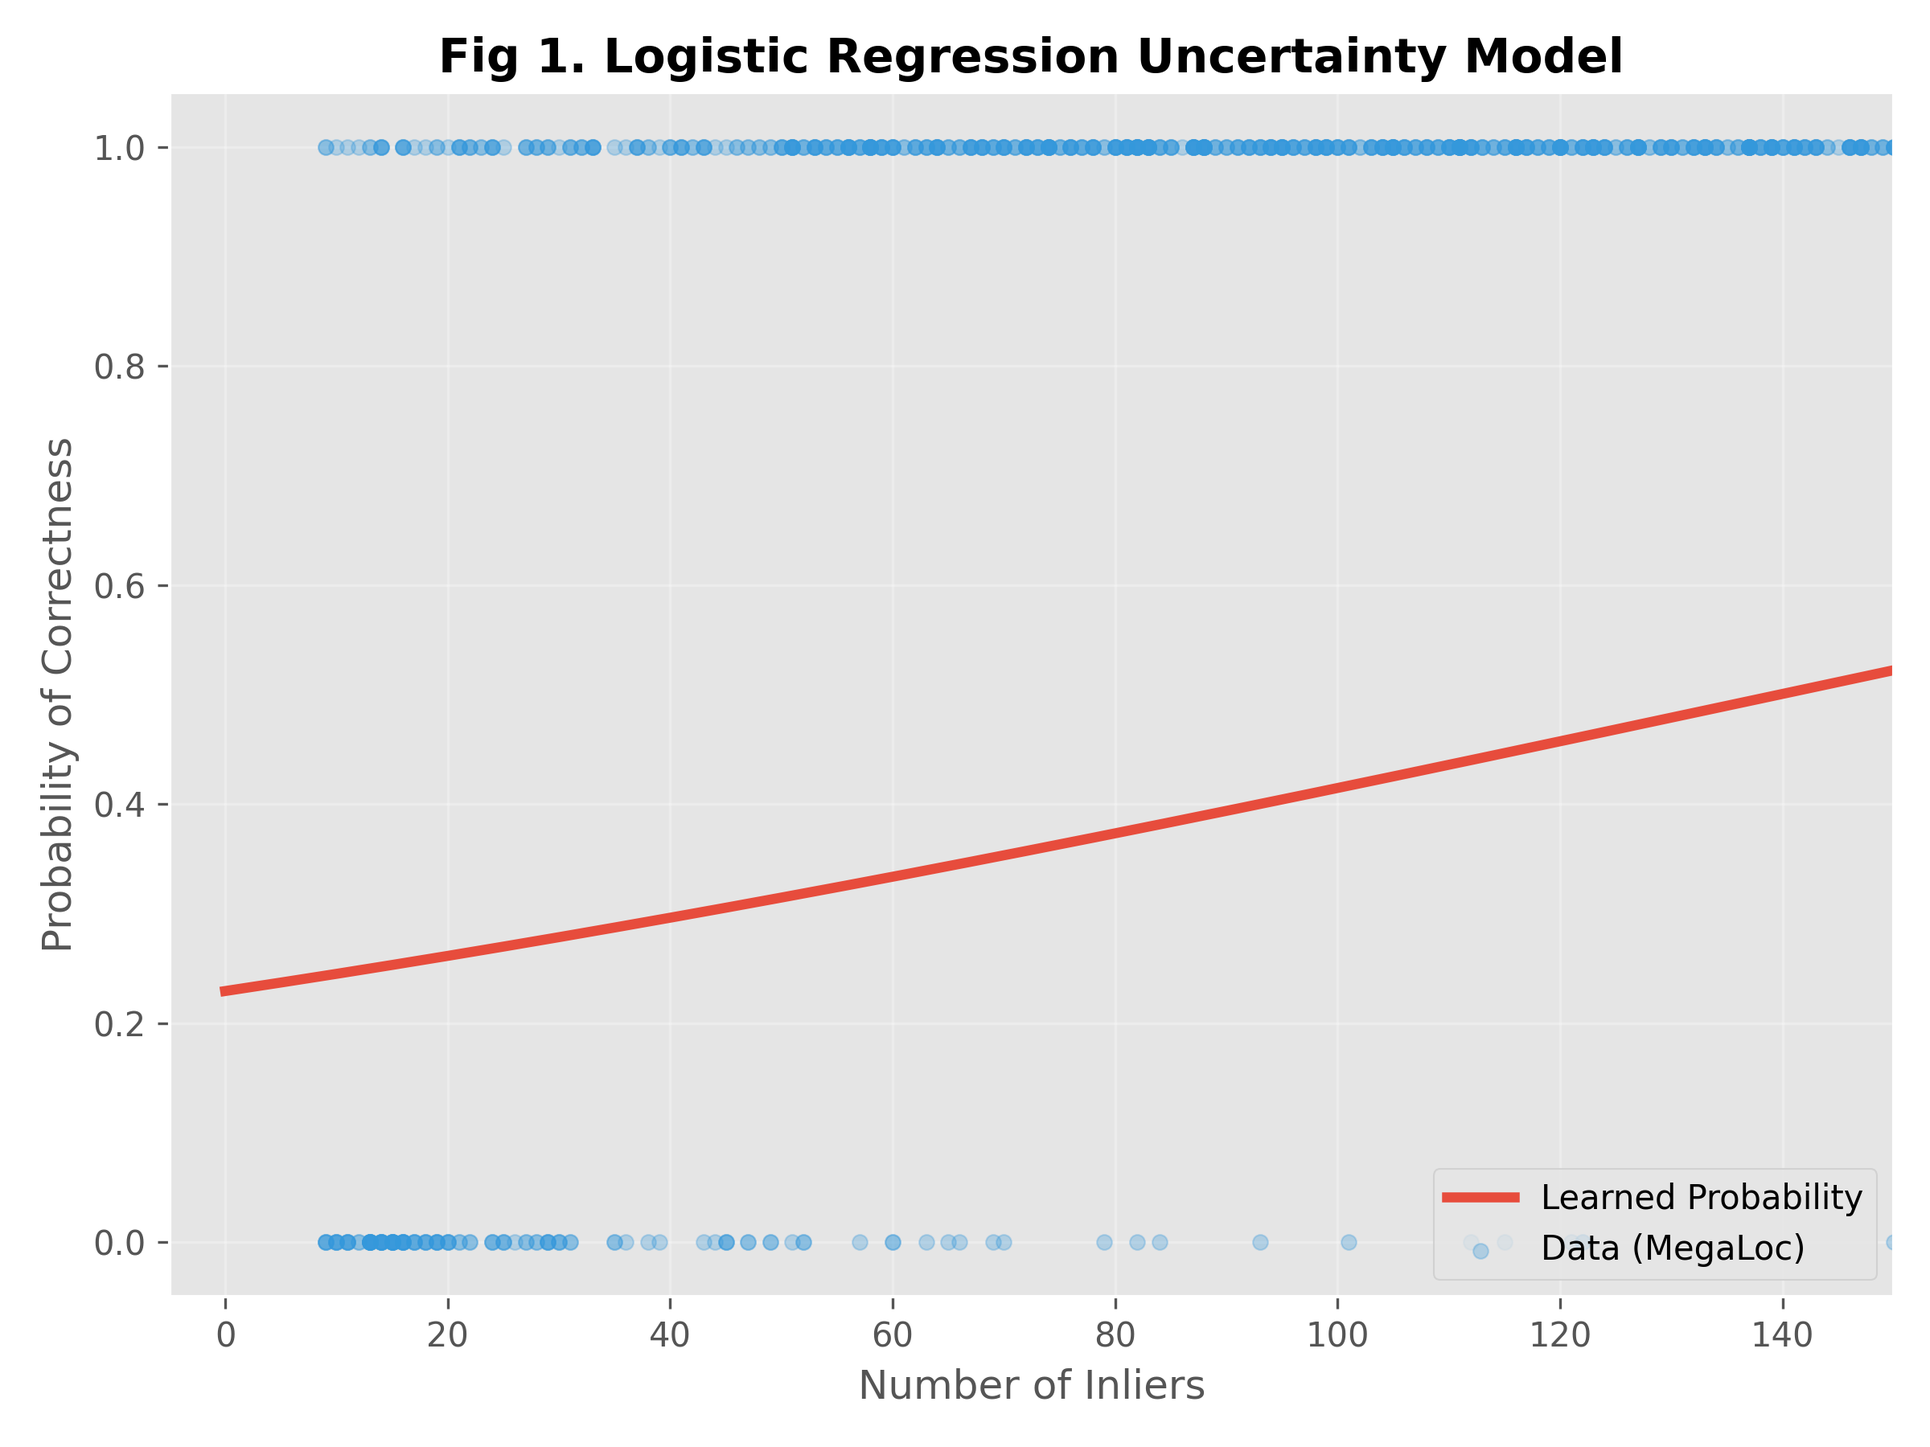
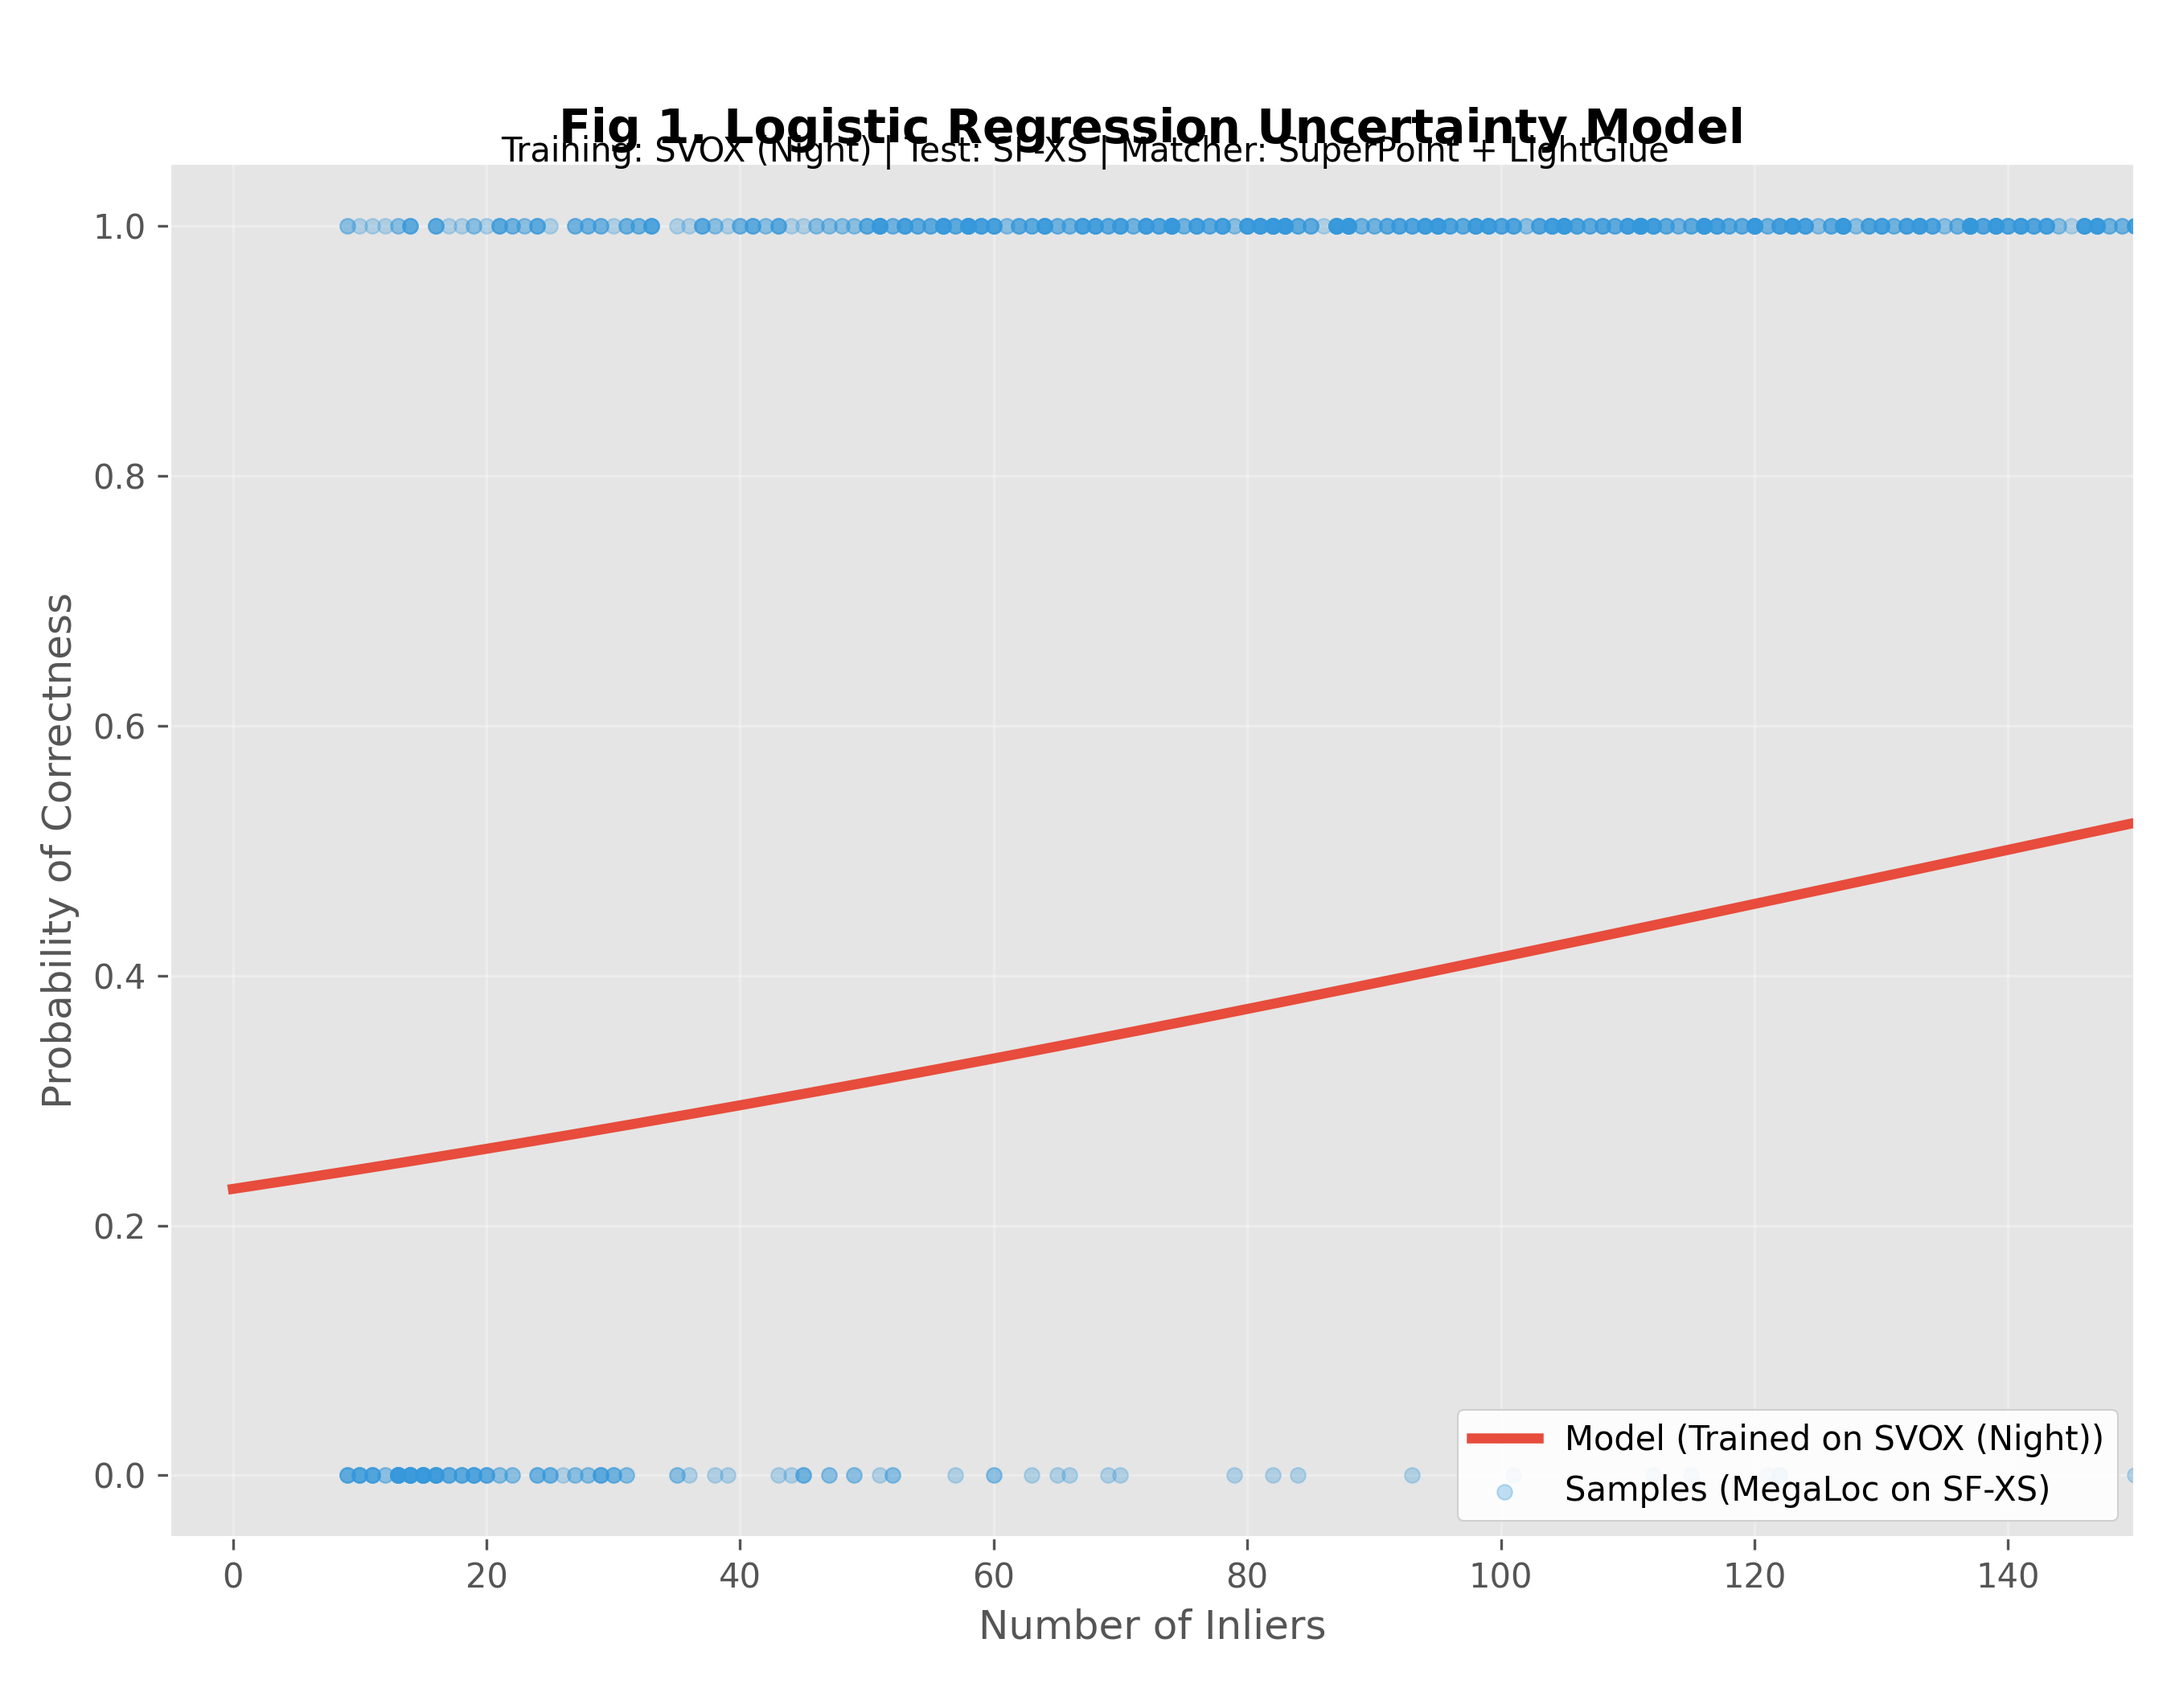
fixed

Changed region(s): [[0.0, 0.0311, 1.0, 0.9956]]

diff --git a/vpr_uncertainty/universal_lr.py b/vpr_uncertainty/universal_lr.py
@@ -14,6 +14,7 @@ warnings.filterwarnings('ignore')
 
 # 1. Training Set (Teacher) -> SVOX (Sun vs Night)
 TRAIN_LOG_DIR = r"D:\AML\Visual-Place-Recognition-Project\logs\2025-12-23_21-01-31"
+TRAIN_DATASET_NAME = "SVOX (Night)"
 
 # 2. Test Sets (Student) -> SF-XS
 # The keys will be used as labels in the plots
@@ -23,9 +24,14 @@ TEST_LOG_DIRS = {
     "MixVPR":   r"D:\AML\Visual-Place-Recognition-Project\logs\log_dir\2025-12-31_08-24-08",
     "MegaLoc":  r"D:\AML\Visual-Place-Recognition-Project\logs\log_dir\2025-12-31_10-47-59"
 }
+TEST_DATASET_NAME = "SF-XS"
 
 # 3. Matcher Folder Name
 MATCHER_FOLDER = "preds_superpoint-lg"
+MATCHER_DISPLAY_NAME = "SuperPoint + LightGlue"
+
+# 4. Results Output Directory
+RESULTS_DIR = r"D:\AML\Visual-Place-Recognition-Project\results"
 
 # =======================================================
 
@@ -105,6 +111,11 @@ def compute_ause(y_true, y_pred_prob):
     return ause, model_curve, oracle_curve
 
 def main():
+    # Ensure results directory exists
+    if not os.path.exists(RESULTS_DIR):
+        print(f"📁 Creating results directory: {RESULTS_DIR}")
+        os.makedirs(RESULTS_DIR)
+
     print("🚀 === Training SVOX (Teacher) Model ===")
     X_train, y_train = get_data(TRAIN_LOG_DIR, MATCHER_FOLDER)
     
@@ -125,7 +136,7 @@ def main():
     
     # Store statistics for plotting
     stats = {
-        'names': [], 'auprc': [], 'ause': [], 'spearman': []
+        'names': [], 'auprc': [], 'ause': [], 'spearman': [], 'r2': []
     }
     
     # Variables to track the "best performer" for detailed curve plotting
@@ -161,6 +172,7 @@ def main():
         stats['auprc'].append(auprc)
         stats['ause'].append(ause_val)
         stats['spearman'].append(spearman_val)
+        stats['r2'].append(r2_val)
         
         # Update best method data (lowest AUSE) for Fig 1 and Fig 2
         if ause_val < best_ause:
@@ -175,27 +187,32 @@ def main():
     plt.style.use('ggplot')
 
     # --- Fig 1: Logistic Regression Curve (S-Curve) ---
-    plt.figure(figsize=(8, 6))
+    plt.figure(figsize=(9, 7))
     x_range = np.linspace(0, 150, 300).reshape(-1, 1)
     y_prob_learned = clf.predict_proba(x_range)[:, 1]
     
-    plt.plot(x_range, y_prob_learned, color='#e74c3c', linewidth=3, label='Learned Probability')
+    plt.plot(x_range, y_prob_learned, color='#e74c3c', linewidth=3, 
+             label=f'Model (Trained on {TRAIN_DATASET_NAME})')
+    
     if best_method_data:
         plt.scatter(best_method_data['X'], best_method_data['y'], 
-                   color='#3498db', alpha=0.3, s=20, label=f"Data ({best_method_data['name']})")
+                    color='#3498db', alpha=0.3, s=20, 
+                    label=f"Samples ({best_method_data['name']} on {TEST_DATASET_NAME})")
     
     plt.title('Fig 1. Logistic Regression Uncertainty Model', fontsize=14, fontweight='bold')
+    plt.suptitle(f"Training: {TRAIN_DATASET_NAME} | Test: {TEST_DATASET_NAME} | Matcher: {MATCHER_DISPLAY_NAME}", fontsize=10, y=0.92)
     plt.xlabel('Number of Inliers', fontsize=12)
     plt.ylabel('Probability of Correctness', fontsize=12)
-    plt.legend(loc='lower right')
+    plt.legend(loc='lower right', frameon=True, facecolor='white', framealpha=0.9)
     plt.grid(True, alpha=0.3)
     plt.xlim(-5, 150)
     plt.tight_layout()
-    plt.savefig('Fig1_Logistic_Curve.png', dpi=300)
-    print("✅ Fig 1 Saved")
+    save_path1 = os.path.join(RESULTS_DIR, 'Fig1_Logistic_Curve.png')
+    plt.savefig(save_path1, dpi=300)
+    print(f"✅ Fig 1 Saved: {save_path1}")
 
     # --- Fig 2: Sparsification Curve (Showing AUSE) ---
-    plt.figure(figsize=(8, 6))
+    plt.figure(figsize=(9, 7))
     if best_method_data:
         mc = best_method_data['model_curve']
         oc = best_method_data['oracle_curve']
@@ -205,38 +222,75 @@ def main():
         plt.plot(x_axis, oc, label='Oracle (Ideal) Curve', color='#2ecc71', linestyle='--', linewidth=2)
         plt.fill_between(x_axis, mc, oc, color='gray', alpha=0.2, label=f'AUSE = {best_ause:.4f}')
         
-        plt.title(f"Fig 2. Sparsification Curve ({best_method_data['name']})", fontsize=14, fontweight='bold')
+        plt.title(f"Fig 2. Sparsification Curve", fontsize=14, fontweight='bold')
+        plt.suptitle(f"Method: {best_method_data['name']} | Dataset: {TEST_DATASET_NAME} | Matcher: {MATCHER_DISPLAY_NAME}", fontsize=10, y=0.92)
         plt.xlabel('Fraction of Removed Samples', fontsize=12)
         plt.ylabel('Error Rate', fontsize=12)
-        plt.legend()
+        plt.legend(frameon=True, facecolor='white', framealpha=0.9)
         plt.grid(True, alpha=0.3)
     plt.tight_layout()
-    plt.savefig('Fig2_Sparsification_Curve.png', dpi=300)
-    print("✅ Fig 2 Saved")
+    save_path2 = os.path.join(RESULTS_DIR, 'Fig2_Sparsification_Curve.png')
+    plt.savefig(save_path2, dpi=300)
+    print(f"✅ Fig 2 Saved: {save_path2}")
 
-    # --- Fig 3: Bar Charts (Comparison across methods) ---
-    fig, (ax1, ax2) = plt.subplots(1, 2, figsize=(14, 6))
-    
-    # Bar 1: AUPRC
-    bars1 = ax1.bar(stats['names'], stats['auprc'], color=['#95a5a6', '#3498db', '#9b59b6', '#2ecc71'], alpha=0.9)
+    # --- Fig 3: Comprehensive Bar Charts (2x2 Grid) ---
+    fig, axs = plt.subplots(2, 2, figsize=(16, 12))
+    ax1, ax2, ax3, ax4 = axs.ravel()
+
+    # Define color palette
+    colors = ['#95a5a6', '#3498db', '#9b59b6', '#2ecc71']
+
+    # 1. AUPRC (Robustness)
+    bars1 = ax1.bar(stats['names'], stats['auprc'], color=colors, alpha=0.9)
     ax1.set_title('Robustness (AUPRC ↑)', fontsize=14, fontweight='bold')
-    ax1.set_ylim(0, 1.1)
+    ax1.set_ylim(0, 1.15)
+    ax1.grid(axis='y', alpha=0.3)
     for bar in bars1:
         ax1.text(bar.get_x() + bar.get_width()/2., bar.get_height() + 0.01,
-                 f'{bar.get_height():.1%}', ha='center', fontweight='bold')
+                 f'{bar.get_height():.1%}', ha='center', fontweight='bold', fontsize=10)
 
-    # Bar 2: AUSE
-    bars2 = ax2.bar(stats['names'], stats['ause'], color=['#e74c3c', '#e67e22', '#f1c40f', '#2ecc71'], alpha=0.9)
+    # 2. AUSE (Reliability)
+    bars2 = ax2.bar(stats['names'], stats['ause'], color=colors, alpha=0.9)
     ax2.set_title('Reliability Error (AUSE ↓)', fontsize=14, fontweight='bold')
-    ax2.set_ylim(0, max(stats['ause']) * 1.3)
+    max_ause = max(stats['ause']) if stats['ause'] else 1.0
+    ax2.set_ylim(0, max_ause * 1.3)
+    ax2.grid(axis='y', alpha=0.3)
     for bar in bars2:
         ax2.text(bar.get_x() + bar.get_width()/2., bar.get_height() + 0.002,
-                 f'{bar.get_height():.4f}', ha='center', fontweight='bold')
+                 f'{bar.get_height():.4f}', ha='center', fontweight='bold', fontsize=10)
 
-    plt.suptitle('Fig 3. Performance Comparison across Methods', fontsize=16)
+    # 3. Spearman (Rank Correlation)
+    bars3 = ax3.bar(stats['names'], stats['spearman'], color=colors, alpha=0.9)
+    ax3.set_title('Rank Correlation (Spearman ↑)', fontsize=14, fontweight='bold')
+    ax3.set_ylim(0, 1.1)
+    ax3.grid(axis='y', alpha=0.3)
+    for bar in bars3:
+        ax3.text(bar.get_x() + bar.get_width()/2., bar.get_height() + 0.01,
+                 f'{bar.get_height():.3f}', ha='center', fontweight='bold', fontsize=10)
+
+    # 4. R2 Score (Goodness of Fit)
+    bars4 = ax4.bar(stats['names'], stats['r2'], color=colors, alpha=0.9)
+    ax4.set_title('Goodness of Fit (R² Score ↑)', fontsize=14, fontweight='bold')
+    # R2 can be negative, so we adjust limits dynamically
+    min_r2 = min(stats['r2']) if stats['r2'] else 0
+    max_r2 = max(stats['r2']) if stats['r2'] else 1
+    # Add some padding
+    y_range = max_r2 - min_r2
+    ax4.set_ylim(min_r2 - y_range*0.1, max_r2 + y_range*0.2 if y_range > 0 else 1)
+    ax4.grid(axis='y', alpha=0.3)
+    ax4.axhline(0, color='black', linewidth=0.8, linestyle='--') # Add zero line for R2
+    for bar in bars4:
+        # Position text slightly above or below bar depending on value
+        y_pos = bar.get_height() + (y_range*0.02 if bar.get_height() >= 0 else -y_range*0.05)
+        ax4.text(bar.get_x() + bar.get_width()/2., y_pos,
+                 f'{bar.get_height():.3f}', ha='center', fontweight='bold', fontsize=10)
+
+    plt.suptitle(f'Fig 3. Comprehensive Metric Comparison\nDataset: {TEST_DATASET_NAME} | Matcher: {MATCHER_DISPLAY_NAME}', fontsize=16, y=0.98)
     plt.tight_layout()
-    plt.savefig('Fig3_Bar_Chart.png', dpi=300)
-    print("✅ Fig 3 Saved")
+    
+    save_path3 = os.path.join(RESULTS_DIR, 'Fig3_Comprehensive_Chart.png')
+    plt.savefig(save_path3, dpi=300)
+    print(f"✅ Fig 3 Saved: {save_path3}")
     
     plt.show()
 
